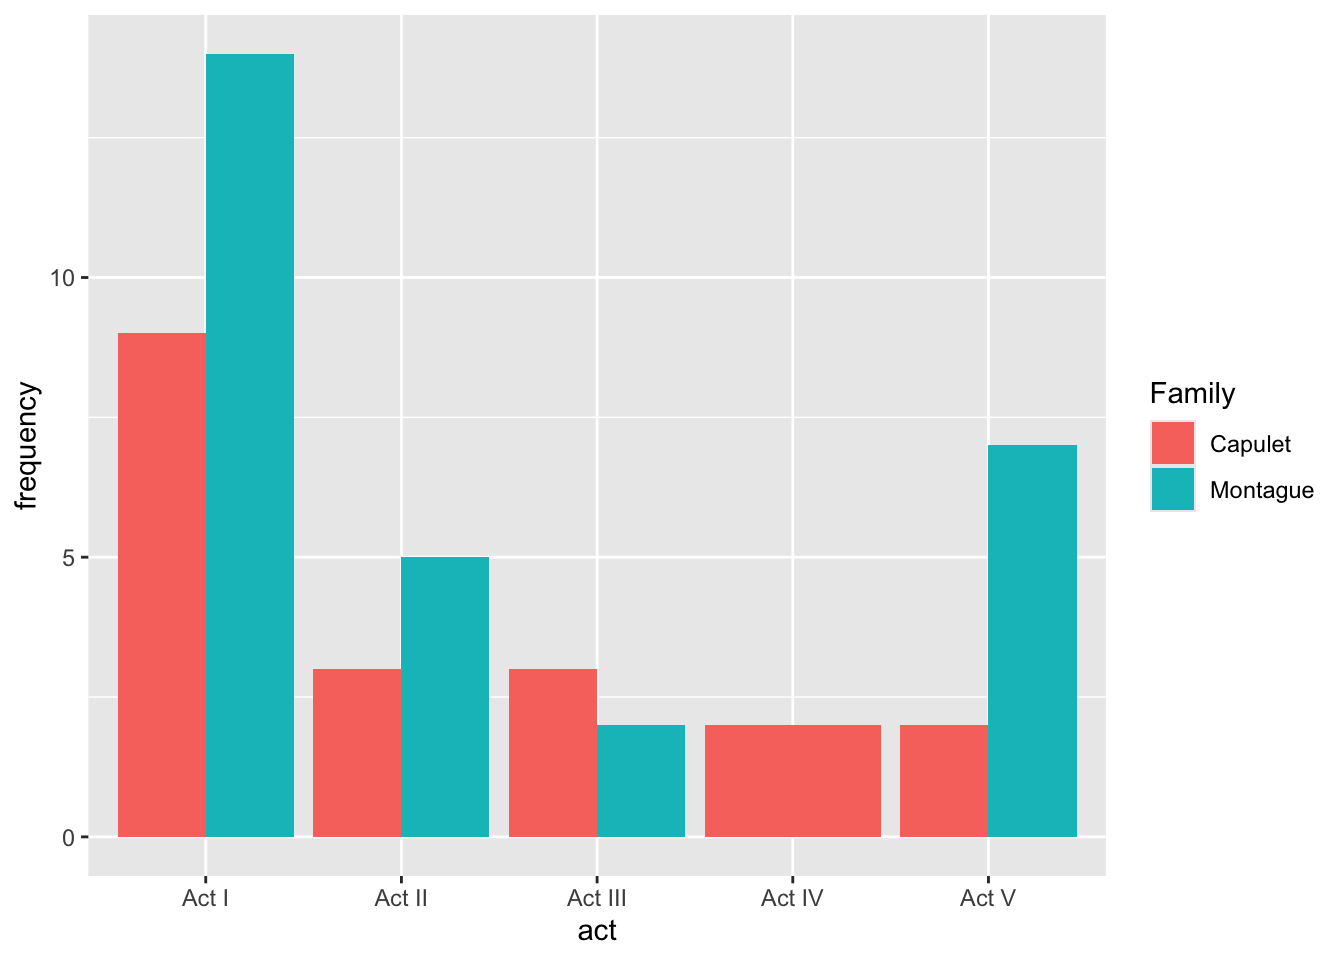
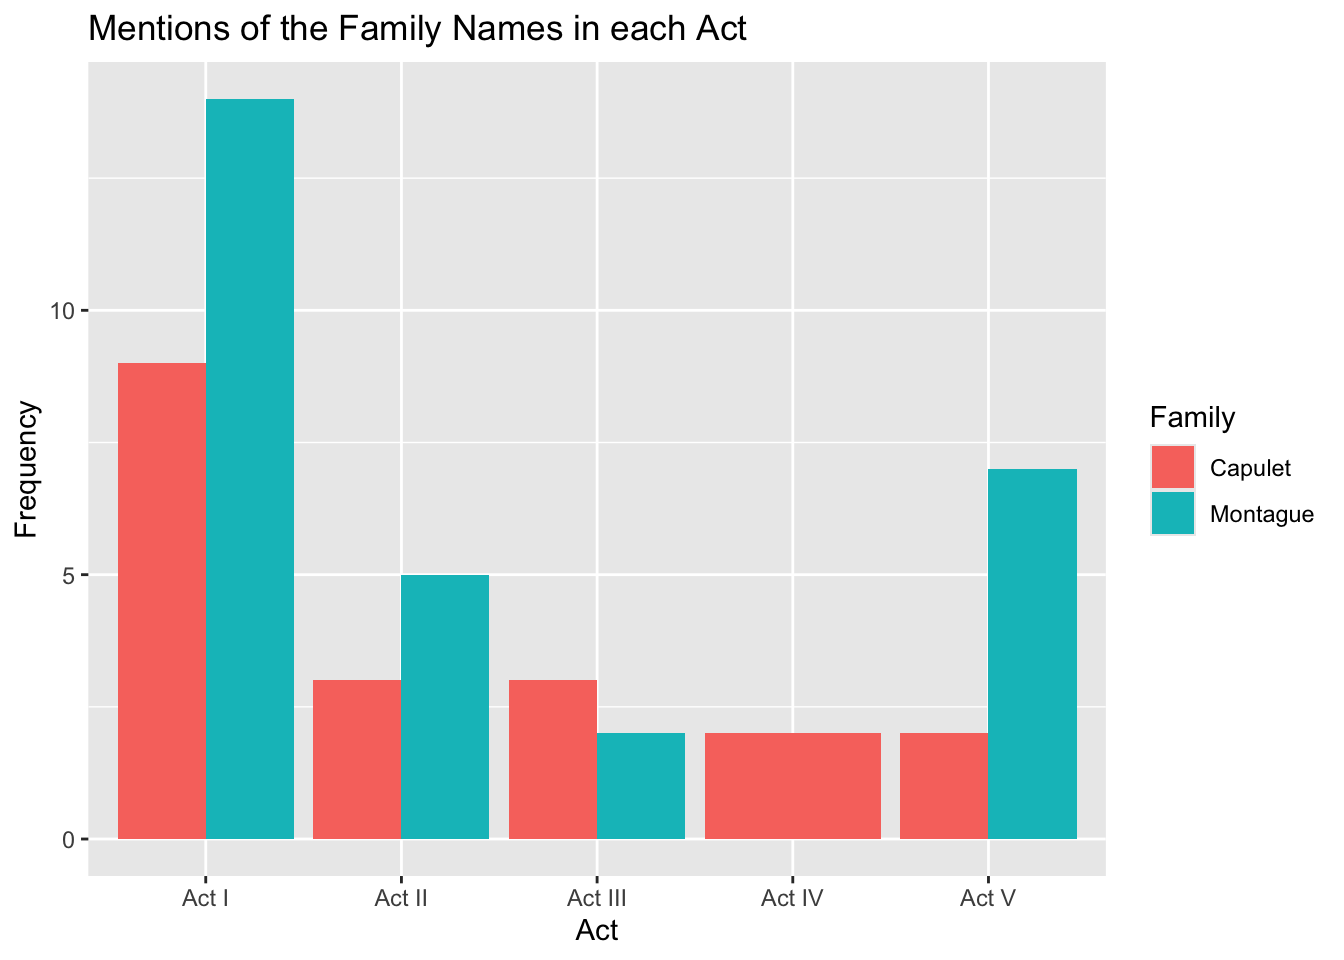
edits before project submit

diff --git a/docs/simstudy.html b/docs/simstudy.html
@@ -171,8 +171,16 @@ pre > code.sourceCode > span > a:first-child::before { text-decoration: underlin
 <div id="quarto-content" class="quarto-container page-columns page-rows-contents page-layout-article page-navbar">
 <!-- sidebar -->
 <!-- margin-sidebar -->
-    <div id="quarto-margin-sidebar" class="sidebar margin-sidebar zindex-bottom">
-        
+    <div id="quarto-margin-sidebar" class="sidebar margin-sidebar">
+        <nav id="TOC" role="doc-toc" class="toc-active">
+    <h2 id="toc-title">On this page</h2>
+   
+  <ul>
+  <li><a href="#the-data" id="toc-the-data" class="nav-link active" data-scroll-target="#the-data">The Data</a></li>
+  <li><a href="#summary-statistics" id="toc-summary-statistics" class="nav-link" data-scroll-target="#summary-statistics">Summary Statistics</a></li>
+  <li><a href="#null-sampling-distribution" id="toc-null-sampling-distribution" class="nav-link" data-scroll-target="#null-sampling-distribution">Null Sampling Distribution</a></li>
+  </ul>
+</nav>
     </div>
 <!-- main -->
 <main class="content" id="quarto-document-content">
@@ -216,8 +224,8 @@ pre > code.sourceCode > span > a:first-child::before { text-decoration: underlin
 <p>Source: Rosen B and Jerdee T. 1974. <a href="https://www.semanticscholar.org/paper/Influence-of-sex-role-stereotypes-on-personnel-Rosen-Jerdee/14701408f0424f98b5223cd8ca37161cc6d5647a#citing-papers">Influence of sex role stereotypes on personnel decisions.</a> Journal of Applied Psychology 59(1):9-14.</p>
 <p>Objective: See if there is a correlation between gender and being promoted from a study in the 1970s about bank manager recommendations based on sex. We want to show that the proportion of women who are promoted is less than men and that this is significant.</p>
 <p>Our null hypothesis is that gender does not affect the likelihood that men or women are promoted.</p>
-<section id="the-data" class="level4">
-<h4 class="anchored" data-anchor-id="the-data">The Data</h4>
+<section id="the-data" class="level3">
+<h3 class="anchored" data-anchor-id="the-data">The Data</h3>
 <p>This data includes 48 observations with two variables: sex (a factor with levels female and male) and decision (a factor with levels not promoted and promoted)</p>
 <div class="cell">
 <div class="sourceCode cell-code" id="cb1"><pre class="sourceCode r code-with-copy"><code class="sourceCode r"><span id="cb1-1"><a href="#cb1-1" aria-hidden="true" tabindex="-1"></a><span class="fu">library</span>(openintro)</span>
@@ -238,8 +246,8 @@ pre > code.sourceCode > span > a:first-child::before { text-decoration: underlin
 </div>
 </div>
 </section>
-<section id="summary-statistics" class="level4">
-<h4 class="anchored" data-anchor-id="summary-statistics">Summary Statistics</h4>
+<section id="summary-statistics" class="level3">
+<h3 class="anchored" data-anchor-id="summary-statistics">Summary Statistics</h3>
 <p>The following code is to calculate the summary statistics for our data.</p>
 <div class="cell">
 <div class="sourceCode cell-code" id="cb3"><pre class="sourceCode r code-with-copy"><code class="sourceCode r"><span id="cb3-1"><a href="#cb3-1" aria-hidden="true" tabindex="-1"></a><span class="fu">library</span>(dplyr)</span>
@@ -267,8 +275,8 @@ pre > code.sourceCode > span > a:first-child::before { text-decoration: underlin
 </div>
 <p>This tells us that the proportion of men promoted from the data is 0.875 whereas the proportion of women promoted from the data is approximately 0.583. Also we can see that the difference in proportion between the women who were promoted and the men who were promoted is -0.2916667.</p>
 </section>
-<section id="null-sampling-distribution" class="level4">
-<h4 class="anchored" data-anchor-id="null-sampling-distribution">Null Sampling Distribution</h4>
+<section id="null-sampling-distribution" class="level3">
+<h3 class="anchored" data-anchor-id="null-sampling-distribution">Null Sampling Distribution</h3>
 <p>Now we want to generate a null-sampling distribution by permuting the decision, assigning a random decision for every person from the 35 promoted and 13 not promoted individuals.</p>
 <div class="cell">
 <div class="sourceCode cell-code" id="cb7"><pre class="sourceCode r code-with-copy"><code class="sourceCode r"><span id="cb7-1"><a href="#cb7-1" aria-hidden="true" tabindex="-1"></a><span class="fu">library</span>(dplyr)</span>
@@ -288,8 +296,8 @@ pre > code.sourceCode > span > a:first-child::before { text-decoration: underlin
 <span id="cb7-15"><a href="#cb7-15" aria-hidden="true" tabindex="-1"></a>perm_stats <span class="ot">&lt;-</span> <span class="fu">map</span>(<span class="dv">1</span><span class="sc">:</span><span class="dv">5000</span>, perm_data, <span class="at">data =</span> sex_discrimination) <span class="sc">|&gt;</span></span>
 <span id="cb7-16"><a href="#cb7-16" aria-hidden="true" tabindex="-1"></a>  <span class="fu">list_rbind</span>()</span></code><button title="Copy to Clipboard" class="code-copy-button"><i class="bi"></i></button></pre></div>
 </div>
-<section id="visualization" class="level5">
-<h5 class="anchored" data-anchor-id="visualization">Visualization</h5>
+<section id="visualization" class="level4">
+<h4 class="anchored" data-anchor-id="visualization">Visualization</h4>
 <div class="cell">
 <div class="sourceCode cell-code" id="cb8"><pre class="sourceCode r code-with-copy"><code class="sourceCode r"><span id="cb8-1"><a href="#cb8-1" aria-hidden="true" tabindex="-1"></a>perm_stats <span class="sc">|&gt;</span></span>
 <span id="cb8-2"><a href="#cb8-2" aria-hidden="true" tabindex="-1"></a>  <span class="fu">ggplot</span>(<span class="fu">aes</span>(<span class="at">x =</span> perm_prop_diff)) <span class="sc">+</span> </span>
@@ -302,7 +310,7 @@ pre > code.sourceCode > span > a:first-child::before { text-decoration: underlin
 <div class="cell-output-display">
 <div>
 <figure class="figure">
-<p><img src="simstudy_files/figure-html/unnamed-chunk-4-1.png" class="img-fluid figure-img" width="672"></p>
+<p><img src="simstudy_files/figure-html/unnamed-chunk-4-1.png" class="img-fluid figure-img" alt="Histogram of the Null Sampling Distribution of Promotion Differences by Gender, the x-axis shows the proportion difference, the y axis shows the frequency that this proportion difference occured at. There is a red line at the test statistic of difference in promotion of women and men of -0.2916667" width="672"></p>
 </figure>
 </div>
 </div>
@@ -316,12 +324,12 @@ pre > code.sourceCode > span > a:first-child::before { text-decoration: underlin
 </div>
 <p>There are only 18 entries from our null sampling distribution that are greater than or equal to our observed difference from the sampling distribution. This gives us a p value of 0.036 which is very small. Small enough for us to reject our null hypothesis. Thus the gender of the person does make a difference on whether or not they were promoted. More specifically to the point of this simulation study, the proportion of females promoted was significantly fewer than the proportion of men who were promoted.</p>
 </section>
-</section>
 <section id="significance" class="level4">
 <h4 class="anchored" data-anchor-id="significance">Significance</h4>
 <p>This data can be generalized to the promotions of bank managers in the 1970s. We can see that during this time period, gender played a significant role in promotion decisions, as women were promoted in much lower rates than men. This data is specific to the context of bank manager recommendations and the time frame, so we cannot generalize to now. To do so we would need further data that is more recent.</p>
 
 
+</section>
 </section>
 
 </main> <!-- /main -->

diff --git a/docs/shake.html b/docs/shake.html
@@ -224,6 +224,7 @@ pre > code.sourceCode > span > a:first-child::before { text-decoration: underlin
 
 <p>Textual analysis of Shakespeare dialogue in his tragedy “Romeo and Juliet”.</p>
 <p>This data was curated by <a href="https://github.com/nrennie">Nicola Rennie</a> from <a href="https://shakespeare.mit.edu">The Complete Works of William Shakespeare</a> the Web’s first edition of the Complete Works of William Shakespeare.</p>
+<p>This project primarily focuses on mentions of the word “death” in the context of the play to learn about Shakespeare’s style and how the play works. We find that he is very explicit in his usage of the word death, mentioned death the most in places where the deaths of characters happen. A future analysis could be done on examining other tenses of the word “death” such as “dying” and “die” however, this project does not examine these for brevity. Also these other tenses may refer to deaths, however tenses add an important aspect to the way things can be read, so refering to instances of the word “death” is easier to do literary analysis on.</p>
 <div class="cell">
 <div class="sourceCode cell-code" id="cb1"><pre class="sourceCode r code-with-copy"><code class="sourceCode r"><span id="cb1-1"><a href="#cb1-1" aria-hidden="true" tabindex="-1"></a>romeo_juliet <span class="ot">&lt;-</span> readr<span class="sc">::</span><span class="fu">read_csv</span>(<span class="st">'https://raw.githubusercontent.com/rfordatascience/tidytuesday/master/data/2024/2024-09-17/romeo_juliet.csv'</span>)</span></code><button title="Copy to Clipboard" class="code-copy-button"><i class="bi"></i></button></pre></div>
 </div>
@@ -328,7 +329,7 @@ pre > code.sourceCode > span > a:first-child::before { text-decoration: underlin
 </div>
 </div>
 </div>
-<p>The most common thing following death is a comma, indicating that death ends a thought of most of the dialogue in Act III. However, not a complete thought as a period would indicate. This is interesting if we wanted to analyze the style that Shakespeare uses to foreshadow the impending doom of Romeo and Juliet and those others who face tragic endings.</p>
+<p>The most common thing following death is a comma, indicating that death ends a thought of most of the dialogue in Act III. However, not a complete thought as a period would indicate. This is interesting if we wanted to analyze the style that Shakespeare uses to foreshadow the impending doom of Romeo and Juliet and those others who face tragic endings. The NA on this graph presumably refers to moments when the word “death” is at the end of a line of dialogue. Furthermore, this plot refers to the character/word after death assuming it is in the same line. For a future study I would create a new data frame with sentences rather than lines to do an analysis on sentence structure rather than line structure (although lines are very important to Shakespeare’s writing as well which validates this strategy I take in this project).</p>
 <div class="cell">
 <div class="sourceCode cell-code" id="cb7"><pre class="sourceCode r code-with-copy"><code class="sourceCode r"><span id="cb7-1"><a href="#cb7-1" aria-hidden="true" tabindex="-1"></a><span class="fu">head</span>(filtered_act_num)</span></code><button title="Copy to Clipboard" class="code-copy-button"><i class="bi"></i></button></pre></div>
 <div class="cell-output cell-output-stdout">
@@ -404,11 +405,12 @@ pre > code.sourceCode > span > a:first-child::before { text-decoration: underlin
 <span id="cb11-11"><a href="#cb11-11" aria-hidden="true" tabindex="-1"></a></span>
 <span id="cb11-12"><a href="#cb11-12" aria-hidden="true" tabindex="-1"></a>montague_and_capulet_summary <span class="sc">|&gt;</span></span>
 <span id="cb11-13"><a href="#cb11-13" aria-hidden="true" tabindex="-1"></a>  <span class="fu">ggplot</span>(<span class="fu">aes</span>(<span class="at">x =</span> act, <span class="at">y =</span> frequency, <span class="at">fill =</span> Family)) <span class="sc">+</span> </span>
-<span id="cb11-14"><a href="#cb11-14" aria-hidden="true" tabindex="-1"></a>  <span class="fu">geom_bar</span>(<span class="at">stat =</span> <span class="st">"identity"</span>, <span class="at">position =</span> <span class="fu">position_dodge</span>())</span></code><button title="Copy to Clipboard" class="code-copy-button"><i class="bi"></i></button></pre></div>
+<span id="cb11-14"><a href="#cb11-14" aria-hidden="true" tabindex="-1"></a>  <span class="fu">geom_bar</span>(<span class="at">stat =</span> <span class="st">"identity"</span>, <span class="at">position =</span> <span class="fu">position_dodge</span>())<span class="sc">+</span> </span>
+<span id="cb11-15"><a href="#cb11-15" aria-hidden="true" tabindex="-1"></a>  <span class="fu">labs</span>(<span class="at">x =</span> <span class="st">"Act"</span>, <span class="at">y =</span> <span class="st">"Frequency"</span>, <span class="at">title =</span> <span class="st">"Mentions of the Family Names in each Act"</span>)</span></code><button title="Copy to Clipboard" class="code-copy-button"><i class="bi"></i></button></pre></div>
 <div class="cell-output-display">
 <div>
 <figure class="figure">
-<p><img src="shake_files/figure-html/unnamed-chunk-9-1.png" class="img-fluid figure-img" width="672"></p>
+<p><img src="shake_files/figure-html/unnamed-chunk-9-1.png" class="img-fluid figure-img" alt="This is a side by side bar plot with one bar for Capulet then Montague showing the frequency that their family name was mentioned. The Acts are on the x-axis then frequency on the y-axis. It shows that act one had the most mentions of both families however the Montague family was mentioned more. Notably in act 4 only the Capulet family was mentioned." width="672"></p>
 </figure>
 </div>
 </div>

diff --git a/docs/londonmarathon.html b/docs/londonmarathon.html
@@ -213,7 +213,7 @@ pre > code.sourceCode > span > a:first-child::before { text-decoration: underlin
 </header>
 
 
-<p>This data comes from <a href="https://github.com/nrennie">Nicola Rennie’s</a> <a href="https://github.com/nrennie/LondonMarathon">LondonMarathon R Package</a> containing two data sets scraped from Wikipedia on (1 November 2022) on London Marathon winners, and some general data. Rennie a self proclaimed “enjoyer of endurance races” curated this data set.</p>
+<p>Source: This data comes from <a href="https://github.com/nrennie">Nicola Rennie’s</a> <a href="https://github.com/nrennie/LondonMarathon">LondonMarathon R Package</a> containing two data sets scraped from Wikipedia on (1 November 2022) on London Marathon winners, and some general data.</p>
 <p>This data was especially interesting to me as a long distance runner, I hope to one day run a marathon. This data comes from London Marathon data about runners accepted into the race. This is dependent on a <a href="https://blog.irace.ai/london-marathon-qualifying-times">few factors</a>: qualifying times (sometimes based on age groups), ballot entry (a lottery entry), running for charity, and many others. Potentially these modes of entry were added as years go by, a reason for the increased accepted runners, or maybe simply marathons have grown in popularity.</p>
 <p>Below you can see the code and data visualizations of number of accepted runners to the London Marathon from the first year it was established in 1980 to 2020.</p>
 <div class="cell">
@@ -232,7 +232,7 @@ pre > code.sourceCode > span > a:first-child::before { text-decoration: underlin
 <div class="cell-output-display">
 <div>
 <figure class="figure">
-<p><img src="londonmarathon_files/figure-html/unnamed-chunk-2-1.png" class="img-fluid figure-img" alt="Graph of Number of Accepted Runners to the London Marathon vs Year from 1980 to 2020 London marathons on the x-axis" width="672"></p>
+<p><img src="londonmarathon_files/figure-html/unnamed-chunk-2-1.png" class="img-fluid figure-img" alt="Graph of Number of Accepted Runners to the London Marathon vs Year from 1980 to 2020 London marathons on the x-axis showing a generally positive correlation between the year and number of accepted runners, besides the year 2020 which had 0 accepted runners and 1980 which had much fewer runners than the next year" width="672"></p>
 </figure>
 </div>
 </div>

diff --git a/docs/sqlproject.html b/docs/sqlproject.html
@@ -429,7 +429,7 @@ pre > code.sourceCode > span > a:first-child::before { text-decoration: underlin
 <div class="cell-output-display">
 <div>
 <figure class="figure">
-<p><img src="sqlproject_files/figure-html/unnamed-chunk-5-1.png" class="img-fluid figure-img" width="672"></p>
+<p><img src="sqlproject_files/figure-html/unnamed-chunk-5-1.png" class="img-fluid figure-img" alt="Line graph of mean absorbance from each publication in WAI database. Each line on the line graph refers to a different publication. Frequency on the x-axis from 200 Hz to 8000 Hz and Mean Absorbance on y-axis. Shows that there is a peak around 3000 Hz in mean absorbance and a quick decline after this indicating that maybe the best absorbance occurs at 3000Hz frequency" width="672"></p>
 </figure>
 </div>
 </div>
@@ -657,7 +657,7 @@ pre > code.sourceCode > span > a:first-child::before { text-decoration: underlin
 <div class="cell-output-display">
 <div>
 <figure class="figure">
-<p><img src="sqlproject_files/figure-html/unnamed-chunk-8-1.png" class="img-fluid figure-img" width="672"></p>
+<p><img src="sqlproject_files/figure-html/unnamed-chunk-8-1.png" class="img-fluid figure-img" alt="This graph is a line graph with three lines one for female, one for male, and one for unknown that shows Mean Absorbance vs. Frequency based on Gender in Lewis and Neely's 2015 study. The x-axis has Frequency in Hz from 200 to 8000 and the y-axis has mean absorbance from 0 to 1. There is a similar trend to the first graph however it has a peak in Mean Absorbance at around 2000Hz and after the decline is much less drastic than the first" width="672"></p>
 </figure>
 </div>
 </div>

diff --git a/docs/index.html b/docs/index.html
@@ -120,7 +120,7 @@ ul.task-list li input[type="checkbox"] {
   </li>
   <li class="nav-item">
     <a class="nav-link" href="./slideshow.html"> 
-<span class="menu-text">Overview of DS002 Projects</span></a>
+<span class="menu-text">Overview of DS002 Project 2</span></a>
   </li>  
 </ul>
           </div> <!-- /navcollapse -->
